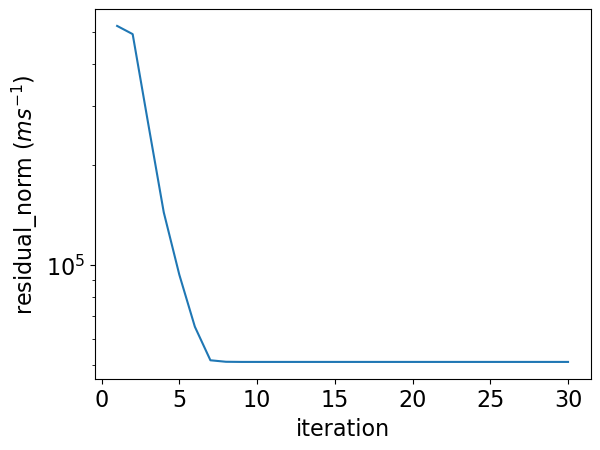
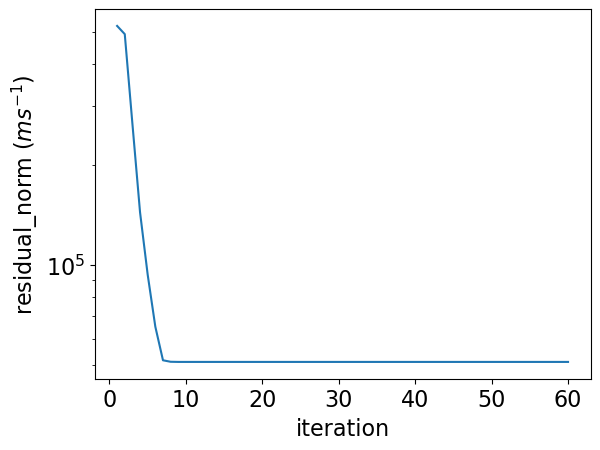
clean up

diff --git a/solve_for_s.py b/solve_for_s.py
@@ -21,9 +21,7 @@ def load_dict(filename_):
 
 def load_galaxy_data(galaxy_dict):
     r = tf.constant(galaxy_dict["r"].astype(np.float64)) # load in radius
-    #r = r / tf.math.reduce_max(r) # normalize radius
     v = tf.constant(galaxy_dict["v"].astype(np.float64)) # load in orbital velocity
-    #v = v / tf.math.reduce_max(v) # normalize orbital velocity
     n = tf.constant(np.asarray([3.0,]).astype(np.float64)) # set number of dimensions
     x = np.asarray([0.001, 1.5, 0.01]) # initial guesses for x
     x = tf.convert_to_tensor(x, dtype = "float64")
@@ -74,23 +72,15 @@ def get_grad(r, v, n, x):
             with tf.GradientTape(persistent = True) as tape_r:  # this tape tracks dK/dr
                 tape_r.watch(r); tape_jac.watch(x); tape_hess.watch(x)
 
-                # s = tf.math.add(tf.math.divide(tf.math.add(x[0], tf.math.multiply(x[1], r)),
-                #     tf.math.add(tf.convert_to_tensor(1, dtype = "float64"), tf.math.multiply(x[2], r))), x[3])
                 s = tf.math.divide(tf.math.add(tf.math.multiply(x[0], \
                 tf.math.pow(tf.convert_to_tensor(10, dtype = "float64"), tf.convert_to_tensor(20 , dtype = "float64"))),
                 tf.math.multiply(x[1], r)),
                 tf.math.add(tf.math.multiply(x[2], \
                 tf.math.pow(tf.convert_to_tensor(10, dtype = "float64"), tf.convert_to_tensor(20 , dtype = "float64"))), r))
 
-                # tf.print("r:", r)
-                # tf.print("s shape: ", tf.shape(s))
-                # tf.print("s num: ", tf.math.add(x[0], tf.math.multiply(x[1], r)))
-                # tf.print("s den: ", tf.math.add(tf.convert_to_tensor(1, dtype = "float64"), r))
-
                 gamma_num = tf.math.exp(tf.math.lgamma(tf.math.subtract(tf.math.divide(n,tf.convert_to_tensor(2, dtype = "float64")), s)))
                 pi_pow = tf.math.pow(tf.convert_to_tensor(np.pi, dtype = "float64"), tf.math.divide(n, tf.convert_to_tensor(2, dtype = "float64")))
                 four_pow = tf.math.pow(tf.convert_to_tensor(4, dtype = "float64"), tf.subtract(s, tf.convert_to_tensor(1, dtype = "float64")))
-
 
                 gamma_den = tf.math.exp(tf.math.lgamma(s))
                 abs_den = tf.math.pow(r, tf.math.subtract(n, tf.multiply(tf.convert_to_tensor(2, dtype = "float64"), s)))
@@ -100,14 +90,9 @@ def get_grad(r, v, n, x):
                 tf.subtract(tf.convert_to_tensor(2, dtype = "float64"),\
                 tf.multiply(tf.convert_to_tensor(2, dtype = "float64"), s)))
                 num = tf.multiply(gamma_num, length_scale)
-                #num = gamma_num
-
 
                 K_fac = tf.constant(-6.67*10**(-11) * 10**(39), dtype = tf.float64)
                 phi = tf.multiply(K_fac, tf.divide(num, den)) # get K - gravitational potential
-
-            # dKdr = tf.math.log(tape_r.gradient(K, r))
-
 
             dphidr = tf.math.abs(tape_r.gradient(phi, r))
             v_calc = tf.sqrt(tf.multiply(dphidr, r))
@@ -141,12 +126,11 @@ def get_grad(r, v, n, x):
 
             residual_norm = tf.math.reduce_euclidean_norm(tf.subtract( \
             tf.sqrt(tf.multiply(dphidr, r)), tf.math.abs(v)))
-            #tf.print("residual_norm: ", residual_norm)
 
         jacobian = tape_jac.jacobian(residual_norm, x)
-        #tf.print("Jacobian: ", jacobian)
+
     hessian = tape_hess.jacobian(jacobian, x)
-    #tf.print("Hessian: ", hessian)
+
     return residual_norm, jacobian, hessian, phi, s, v_calc
 
 def get_s(galaxy_dict):
@@ -159,32 +143,20 @@ def get_s(galaxy_dict):
     get_grad_concrete = get_grad.get_concrete_function(r, v, n, x) # initialize tensorflow concrete function
     while residual_norm > tol:
         nits += 1
-
         residual_norm, jacobian, hessian, phi, s, v_calc = get_grad_concrete(r, v, n, x) # tf function to get res_norm, d res_norm/dx, and d^2 res_norm/dx^2
-        if False:
-            plt.clf(); plt.plot(r, phi.numpy())
-            plt.xlabel("r (m)"); plt.ylabel("$\Phi$ ($m^2 s^{-2}$)")
-            plt.savefig("phi_vs_r.png", bbox_inches = "tight")
 
-            plt.clf(); plt.plot(r, s.numpy())
-            plt.xlabel("r (m)"); plt.ylabel("$s$")
-            plt.savefig("s_vs_r.png", bbox_inches = "tight")
-            #import pdb; pdb.set_trace()
-
-        #check_fin_diff(0.001, r, v, n, x.numpy(), residual_norm, jacobian, hessian, get_grad_concrete = get_grad_concrete)
-        #print(np.linalg.eig(hessian))
-        #import pdb; pdb.set_trace()
         try:
             x = x - tf.reshape(tf.linalg.solve(hessian, tf.reshape(jacobian, [3,1])),[3,]) # take Newton step
         except:
             import pdb; pdb.set_trace()
+
         residual_norm = residual_norm.numpy()
 
         print(f"Newton iteration {nits}.  Residual norm: {residual_norm}. X = {x.numpy()}")
         print(f"Newton  step: {tf.reshape(tf.linalg.solve(hessian, tf.reshape(jacobian, [3,1])),[3,])}")
         print(f"New x: {x}")
         it_list.append(nits); res_list.append(residual_norm)
-        if nits == 30:
+        if nits == 60:
             plt.clf(); plt.plot(r, phi.numpy())
             plt.xlabel("r (m)"); plt.ylabel("$\Phi$ ($m^2 s^{-2}$)")
             plt.savefig("phi_vs_r.png", bbox_inches = "tight")
@@ -206,9 +178,8 @@ def get_s(galaxy_dict):
             plt.ylabel("residual_norm ($m s^{-1}$)")
             plt.yscale("log")
             plt.savefig("residual.png", bbox_inches = "tight")
-            #break
             import pdb; pdb.set_trace()
-
+            break
     return x
 
 if __name__ == "__main__":
